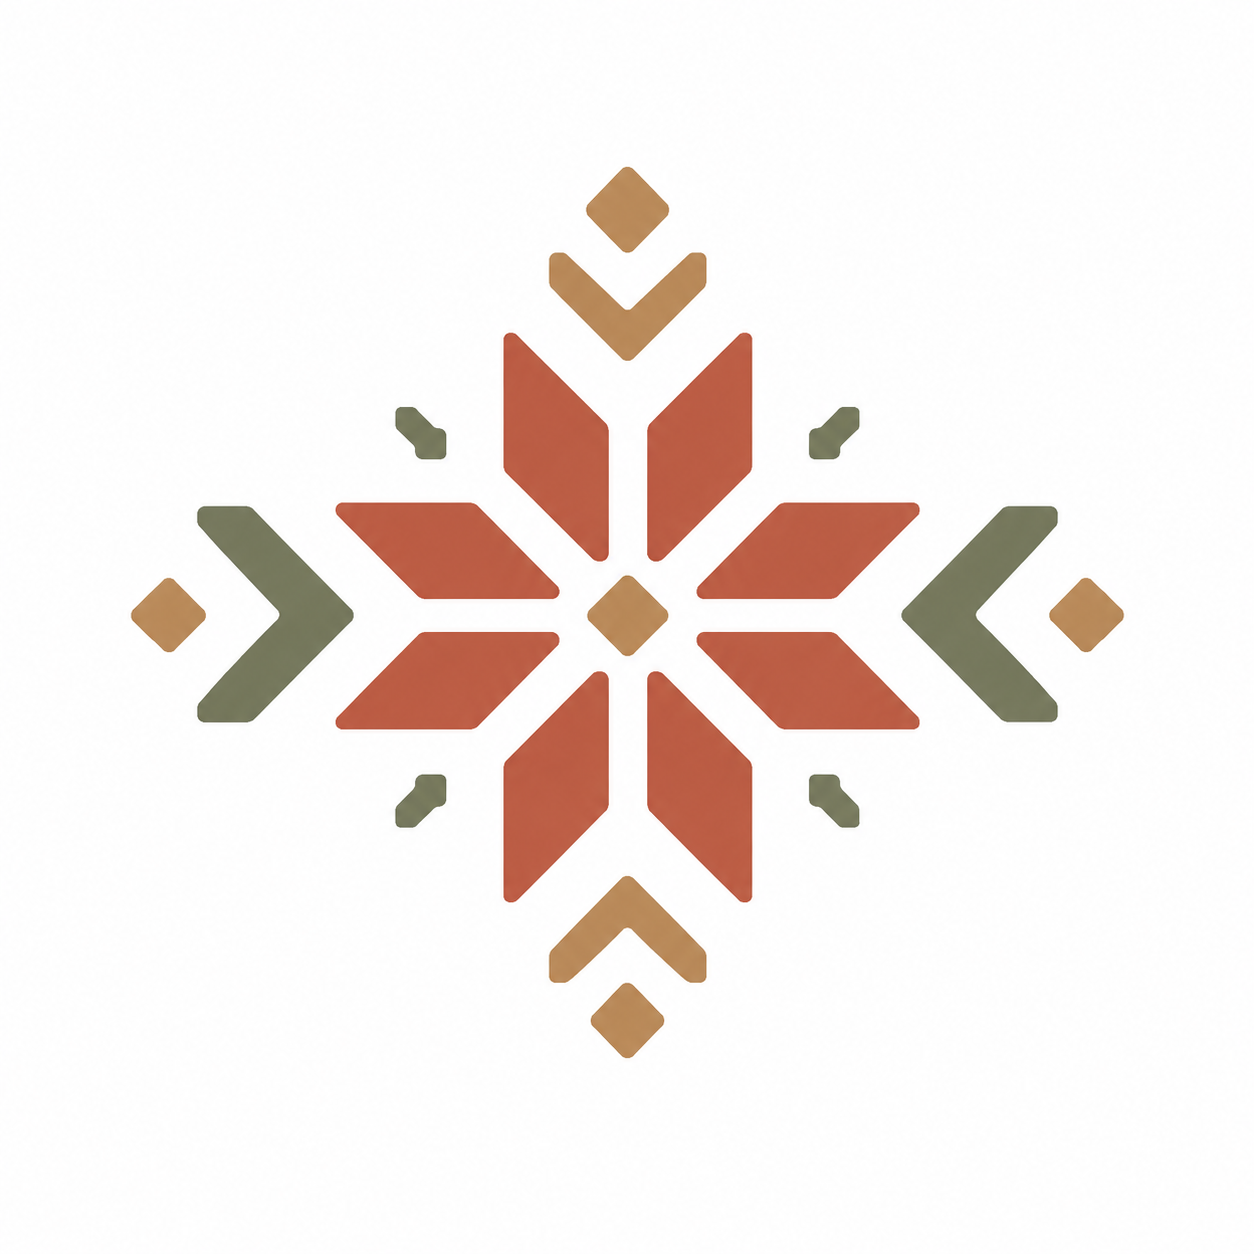
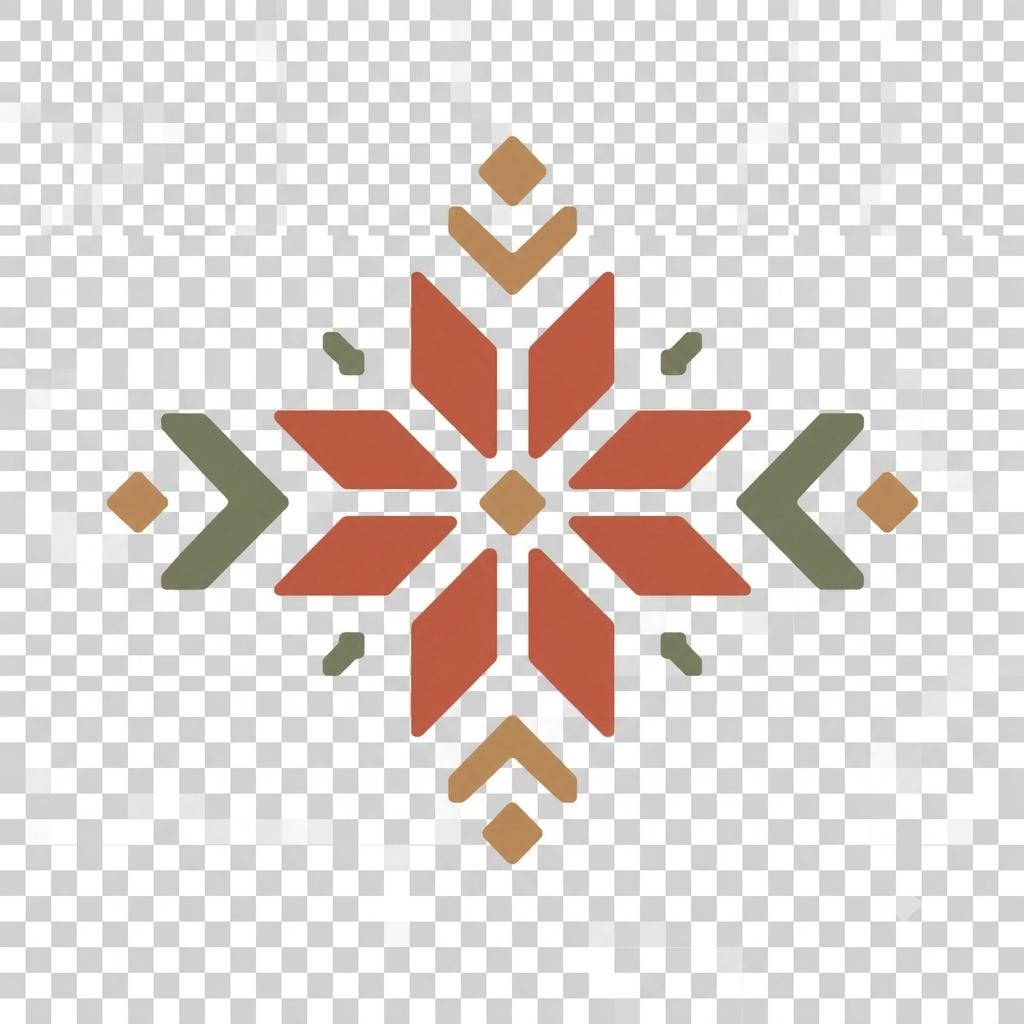
bug fixes

diff --git a/src/app/components/common/cart/cart.ts b/src/app/components/common/cart/cart.ts
@@ -18,6 +18,7 @@ export class Cart implements OnInit {
 
   cartId: number = 0;
   cartItems: any[] = [];
+  total_price : number = 0;
 
   ngOnInit(): void {
     const userData = localStorage.getItem('userData');
@@ -25,13 +26,14 @@ export class Cart implements OnInit {
     const user = JSON.parse(userData);
     this.cartId = user.cart.id;
     this.cartItems = user.cart.items;
-    console.log(this.cartItems);
+    this.total_price = user.cart.total
   }
 
   removeFromCart(item: any) {
     const payload = {
       cart_id : this.cartId,
-      product_id : item.product.id
+      product_id : item.product.id,
+      quantity: item.quantity
     }
     this.cartService.removeFromCart(payload).subscribe({
       next: (response: any) => {
@@ -41,6 +43,7 @@ export class Cart implements OnInit {
           if (!userData) return;
           var user = JSON.parse(userData)
           user.cart.items = this.cartItems;
+          this.total_price = user.cart.total = response.cart.total
           localStorage.setItem("userData", JSON.stringify(user))
         }
       },

diff --git a/src/app/components/common/cart/cart.html b/src/app/components/common/cart/cart.html
@@ -25,7 +25,7 @@
     </ng-template>
     <ng-template #footer>
       <tr>
-        <td colspan="6">Ukupno proizvoda: {{ cartItems ? cartItems.length : 0 }}</td>
+        <td colspan="6">Ukupna cena: {{total_price }}</td>
       </tr>
     </ng-template>
   </p-table>

diff --git a/src/app/models/cart.ts b/src/app/models/cart.ts
@@ -4,6 +4,7 @@ export class Cart {
     id: number | null = null;
     userId: number | null = null;
     items: CartItem[] = [];
+    total: number = 0;
 }
 
 export class CartItem {

diff --git a/src/styles.css b/src/styles.css
@@ -75,7 +75,6 @@ h1 {
   align-items: center;     /* Centers the child elements vertically */
   width: 100%;             /* Takes full width of the screen */
   padding: 15px 0;         /* Add some padding for breathing room */
-  background-color: #ffffff; /* Or whatever your layout color is */
 }
 
 /* 2. Make the link wrapper occupy exactly 1/3 (33.33%) of the header */